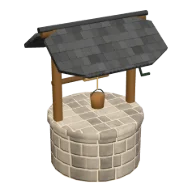
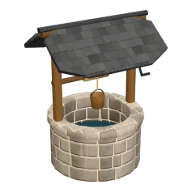
The well's wall and bucket turned with spin: their rims no longer twist, the shaft is open
Both profiles turn back on themselves (up the outside, over the rim, down the inside), and lathe turns each ring with
its spine: where a profile turns down its rings flip, the band between twists and the inside comes out inside out (the
wall's rim closed the shaft like a lid, the bucket's rim twisted). The kit's lathe is left as it is: a fix there would
change every other model whose profile turns back a little (berries, fruit and goods with a dimple, the hat's brim, the
forearm's cuff, the cars' wheels, the tractor's), so only the well's two profiles (WELL_WALL, WELL_BUCKET) move to spin,
which keeps every ring in one frame; same vertices and triangles. well.test.ts holds their faces upright and facing out
(the volume they hold is the profile's; lathe's holds twice and more). Its shop picture drawn again.

Claude-Session: https://claude.ai/code/session_01GSFjGHXrugxPciUhGZD2yi

Changed region(s): [[0.3125, 0.4688, 0.6875, 0.6875]]

diff --git a/src/models/well.test.ts b/src/models/well.test.ts
@@ -1,0 +1,89 @@
+import { describe, expect, it } from 'vitest'
+import { lathe, spin, type Shape } from '../lib/sculpt'
+import { WELL_BUCKET, WELL_WALL, decorModel } from './decor'
+
+// The well's wall and bucket (src/models/decor.ts): each a profile that turns back on itself (up the outside, over the
+// rim, down the inside), turned with `spin`, every ring in one frame. `lathe` turns each ring with its spine, so where a
+// profile turns down its rings flip and the band between them twists; it is left as it is, as every other model built
+// with it is drawn today (the berries' and fruits' dimples, a hat's brim, a forearm's cuff turn back too), and a profile
+// that turns back is turned with `spin`. A band turned that way leaves the inside of the wall inside out: these hold every
+// face of the well's turned parts upright on its profile and facing out of the solid.
+
+/** Each triangle's unit normal and middle. */
+function faces(s: Shape) {
+  const out: { n: [number, number, number]; c: [number, number, number] }[] = []
+  for (let t = 0; t < s.i.length; t += 3) {
+    const [a, b, c] = [s.i[t], s.i[t + 1], s.i[t + 2]].map((k) => [s.p[k * 3], s.p[k * 3 + 1], s.p[k * 3 + 2]])
+    const u = [b[0] - a[0], b[1] - a[1], b[2] - a[2]]
+    const v = [c[0] - a[0], c[1] - a[1], c[2] - a[2]]
+    const n: [number, number, number] = [u[1] * v[2] - u[2] * v[1], u[2] * v[0] - u[0] * v[2], u[0] * v[1] - u[1] * v[0]]
+    const len = Math.hypot(...n)
+    if (len < 1e-12) continue
+    out.push({ n: [n[0] / len, n[1] / len, n[2] / len], c: [(a[0] + b[0] + c[0]) / 3, (a[1] + b[1] + c[1]) / 3, (a[2] + b[2] + c[2]) / 3] })
+  }
+  return out
+}
+
+/** How far the faces turn round the axis: the largest share of a normal along the way round (0 on a surface turned
+ *  true; a polygon's face off its middle leans by at most sin(π / seg)). */
+function twist(s: Shape) {
+  let most = 0
+  for (const { n, c } of faces(s)) {
+    const r = Math.hypot(c[0], c[2])
+    if (r < 1e-6) continue
+    most = Math.max(most, Math.abs((-c[2] / r) * n[0] + (c[0] / r) * n[2]))
+  }
+  return most
+}
+
+/** The volume a closed shape holds, signed: positive when its faces face out. */
+function volume(s: Shape) {
+  let v = 0
+  for (let t = 0; t < s.i.length; t += 3) {
+    const [a, b, c] = [s.i[t], s.i[t + 1], s.i[t + 2]].map((k) => [s.p[k * 3], s.p[k * 3 + 1], s.p[k * 3 + 2]])
+    v += (a[0] * (b[1] * c[2] - b[2] * c[1]) - a[1] * (b[0] * c[2] - b[2] * c[0]) + a[2] * (b[0] * c[1] - b[1] * c[0])) / 6
+  }
+  return v
+}
+
+/** What a profile turned as a polygon of `seg` sides holds: a frustum of the polygon between each two rings, taken away
+ *  where the profile goes down (the inside of a wall). */
+function expected(profile: [number, number][], seg: number) {
+  const k = (seg / 2) * Math.sin((2 * Math.PI) / seg)
+  let v = 0
+  for (let i = 0; i < profile.length - 1; i++) {
+    const [a, y0] = profile[i]
+    const [b, y1] = profile[i + 1]
+    v += (k * (y1 - y0) * (a * a + a * b + b * b)) / 3
+  }
+  return v
+}
+
+describe('the well: its turned wall and bucket', () => {
+  it.each([
+    ['wall', WELL_WALL, 20],
+    ['bucket', WELL_BUCKET, 12],
+  ] as const)('the %s faces out everywhere, untwisted, and holds what its profile does', (_, profile, seg) => {
+    const s = spin(profile as [number, number][], seg)
+    expect(twist(s)).toBeLessThan(Math.sin(Math.PI / seg) + 1e-6)
+    const want = expected(profile as [number, number][], seg)
+    expect(want).toBeGreaterThan(0)
+    expect(volume(s)).toBeCloseTo(want, 8)
+  })
+
+  it('the well is built with them: its wall is the wall turned true', () => {
+    const wall = decorModel('well').stone.shape
+    expect(twist(wall)).toBeLessThan(Math.sin(Math.PI / 20) + 1e-6)
+    expect(volume(wall)).toBeCloseTo(expected(WELL_WALL, 20), 8)
+  })
+
+  it('(why not `lathe`: the same profiles come out with the inside of the wall inside out, holding twice and more)', () => {
+    for (const [profile, seg] of [
+      [WELL_WALL, 20],
+      [WELL_BUCKET, 12],
+    ] as const) {
+      const want = expected(profile as [number, number][], seg)
+      expect(volume(lathe(profile as [number, number][], { seg, steps: 1 }))).toBeGreaterThan(1.5 * want)
+    }
+  })
+})

diff --git a/src/models/decor.ts b/src/models/decor.ts
@@ -1,5 +1,5 @@
 import { Matrix4, Quaternion, Vector3 } from 'three'
-import { blob, ellipsoid, fbm3, lathe, loft, merge, noise3, random, rgb, Shape, smoothstep, squircle, tube, type Ring, type SculptMaterialOptions, type V3 } from '../lib/sculpt'
+import { blob, ellipsoid, fbm3, lathe, loft, merge, noise3, random, rgb, Shape, smoothstep, spin, squircle, tube, type Ring, type SculptMaterialOptions, type V3 } from '../lib/sculpt'
 import type { DecorKind } from '../farm/decor'
 import { scarecrowModel } from './scarecrows'
 import { grain, mix, slab, type Structure } from './structures'
@@ -722,22 +722,33 @@ function birdbath(): Structure<'stone' | 'water'> {
   }
 }
 
+/** The well's wall, [radius, height] round the outside of its cross-section: up the outside, over the rim of flat
+ *  stones and down the shaft to the water. It turns back on itself, so it is turned with `spin`, every ring in one frame
+ *  (`lathe` turns each ring with its spine: where the profile turns down, its rings flip, and the band between twists). */
+export const WELL_WALL: [number, number][] = [
+  [0.6, 0],
+  [0.6, 0.6],
+  [0.63, 0.625],
+  [0.63, 0.69],
+  [0.6, 0.715],
+  [0.47, 0.715],
+  [0.45, 0.69],
+  [0.45, 0.3],
+  [0, 0.3],
+]
+/** The well's bucket, the same way: up its staves outside, over the rim and down inside to its floor. */
+export const WELL_BUCKET: [number, number][] = [
+  [0, 0.79],
+  [0.08, 0.79],
+  [0.098, 0.96],
+  [0.088, 0.965],
+  [0.072, 0.815],
+  [0, 0.815],
+]
+
 function well(): Structure<'stone' | 'wood' | 'roof' | 'water'> {
   // the wall: courses of stone round a shaft, a rim of flat stones on top; dark down the shaft
-  const stone = lathe(
-    [
-      [0.6, 0],
-      [0.6, 0.6],
-      [0.63, 0.625],
-      [0.63, 0.69],
-      [0.6, 0.715],
-      [0.47, 0.715],
-      [0.45, 0.69],
-      [0.45, 0.3],
-      [0, 0.3],
-    ],
-    { seg: 20, steps: 1 },
-  )
+  const stone = spin(WELL_WALL, 20)
     .paint((x, y, z) => {
       const r = Math.hypot(x, z)
       const inside = r < 0.455 && y < 0.7
@@ -781,17 +792,7 @@ function well(): Structure<'stone' | 'wood' | 'roof' | 'water'> {
   ).paint(() => IRON, 0)
   // the bucket hanging on its rope above the shaft: staves with two iron hoops, a bail
   const bz = 0.055
-  const bucket = lathe(
-    [
-      [0, 0.79],
-      [0.08, 0.79],
-      [0.098, 0.96],
-      [0.088, 0.965],
-      [0.072, 0.815],
-      [0, 0.815],
-    ],
-    { seg: 12, steps: 1 },
-  )
+  const bucket = spin(WELL_BUCKET, 12)
     .paint((_x, y) => (y < 0.82 ? mix(WOOD, WOOD_DARK, 0.6) : WOOD), 0)
     .pattern((_x, y) => (Math.abs(y - 0.83) < 0.012 || Math.abs(y - 0.935) < 0.012 ? 1 : 0), IRON)
     .place([0, 0, bz])
